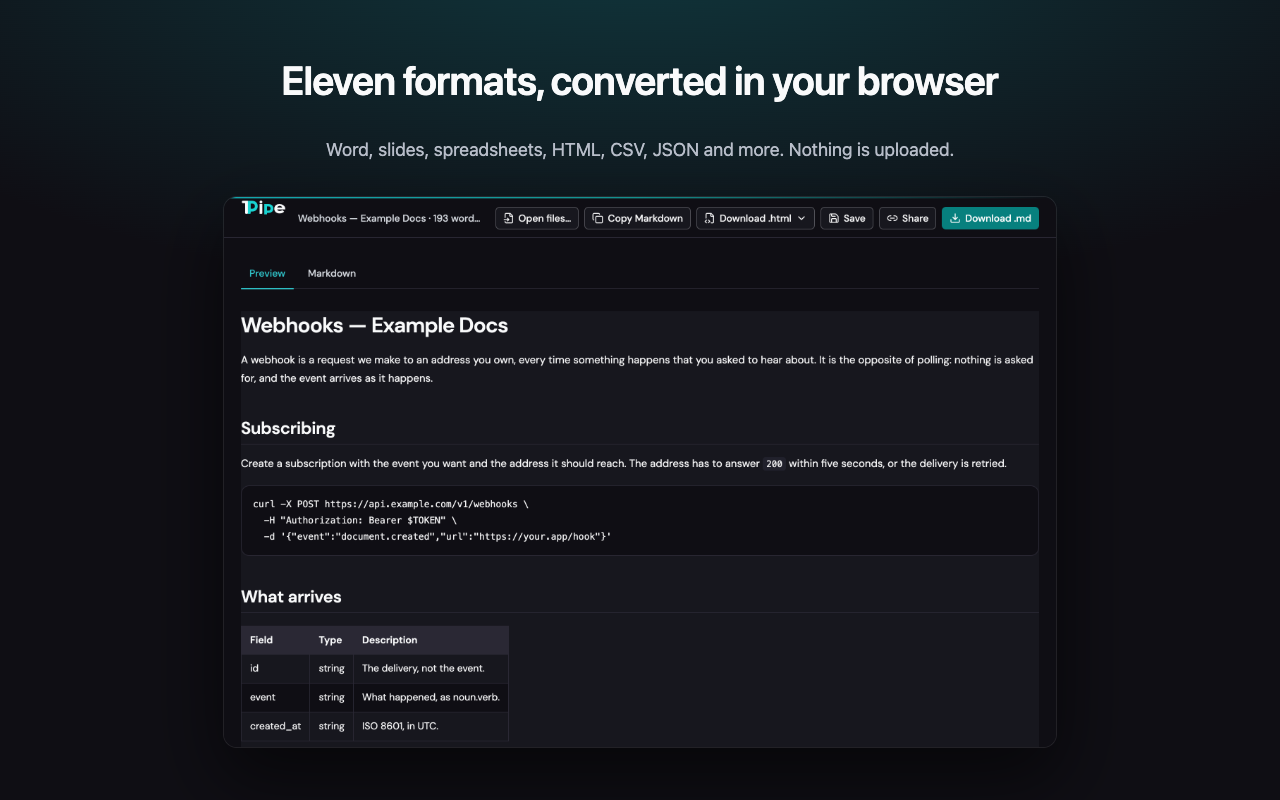
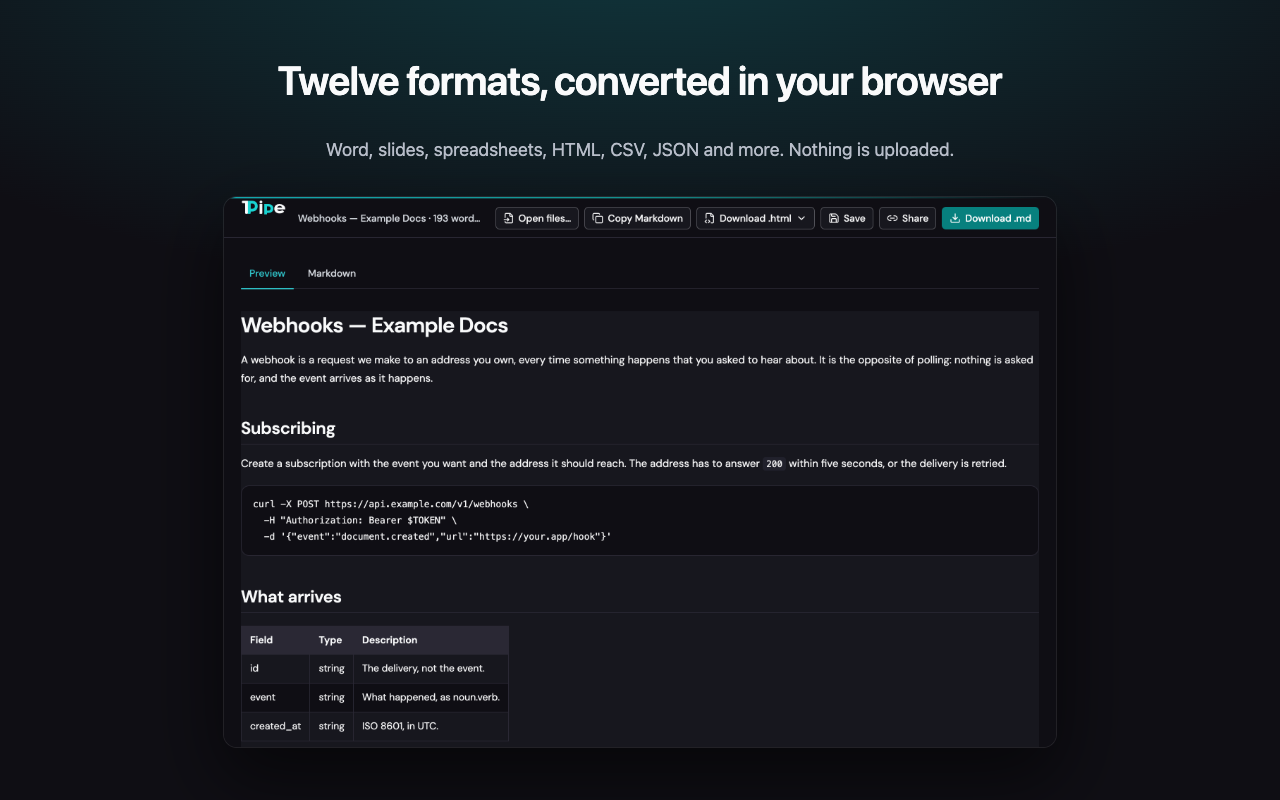
2.2.0, replacing 2.1.0 in the queue
2.1.0 went to the Chrome Web Store this morning and is replaced rather
than left to clear review. That is the opposite of the rule this
project wrote for itself a week ago — submit early and ship something
else while it sits — and it is the right call once: a snapshot of any
page whose CSS arrives by `<link>`, which is most pages, came out with
none of the site's styling in it, and saving a page as it looks is one
of the three things the extension does.

What 2.2.0 adds over it: EPUB as the twelfth conversion, the three
things that only went wrong on a phone, and the snapshot fix itself.

The screenshots are redrawn — the caption said eleven formats.

Changed region(s): [[0.2188, 0.0625, 0.7812, 0.125]]

diff --git a/src/lib/changelog.ts b/src/lib/changelog.ts
@@ -93,6 +93,18 @@ export const DETAIL_LIMIT = 3000;
 const ENTRIES: ChangelogEntry[] = [
   {
     date: '2026-09-21',
+    version: '2.2.0',
+    title: 'EPUB, and a phone that works',
+    body:
+      'A book is the twelfth conversion: a chapter is a section, in the order the book is read '
+      + 'rather than the order its files are numbered. Reading a document full screen now works '
+      + 'on an iPhone, where it had never worked at all; the tabs above a converted document stop '
+      + 'taking the page sideways; and a dialog taller than a phone held sideways can be '
+      + 'scrolled. For the extension, a saved page keeps the site’s own stylesheets — 2.1.0 was '
+      + 'replaced in the store rather than left to clear review, because it did not.',
+  },
+  {
+    date: '2026-09-21',
     title: 'A saved page keeps the site’s own stylesheets',
     body:
       'Saving a page as it looks could produce a file with none of the site’s styling in it — the '

diff --git a/shared/version.ts b/shared/version.ts
@@ -10,4 +10,4 @@
  * `npm run deploy:check` compares this with `package.json` and fails the build when they drift, so
  * the copy cannot go stale quietly.
  */
-export const VERSION = '2.1.0';
+export const VERSION = '2.2.0';

diff --git a/ROADMAP.md b/ROADMAP.md
@@ -83,11 +83,16 @@ two files into an answer. Hiding the one strategic bet in a list about storage i
 
 | | State |
 | --- | --- |
-| Chrome Web Store | **2.1.0 submitted 21 September**, with the screenshots redrawn. 1.0.0 was published that morning — 2.0.0 was built on the 19th and never went to Chrome, which is why the next number is 2.1.0 |
-| Firefox Add-ons | 2.0.0 submitted 19 September with source and `BUILD.md` — 0 errors, 26 warnings, all from mermaid's own dependencies. 2.1.0 and its source archive are built and go up once that one clears |
+| Chrome Web Store | **2.2.0**, which replaced 2.1.0 in the queue the same day it went up. 1.0.0 was published on the morning of the 21st; 2.0.0 was built on the 19th and never sent |
+| Firefox Add-ons | 2.0.0 submitted 19 September with source and `BUILD.md` — 0 errors, 26 warnings, all from mermaid's own dependencies. 2.2.0 and its source archive follow it |
 | GitHub Marketplace, for the Action | `branding` is in `action.yml`; the listing itself has not been made |
 
 The rule that came out of this: submit early in a week and ship something else while it sits.
+
+And the exception, taken once on 21 September: a package under review is replaced rather than
+left to clear when what is in it is broken for most people. 2.1.0 saved a page with none of the
+site's stylesheets in it, on any page whose CSS arrives by `<link>`. A restarted review is
+cheaper than a fortnight of that on the shelf.
 
 And the one from 21 September: **the screenshots are part of the listing.** `check-store.mjs` was
 written after the 1.0.0 rejection to stop this repository naming a format it does not convert, and
@@ -103,6 +108,14 @@ says otherwise.
 
 ### 21 September
 
+- [x] **2.2.0** — EPUB, the three mobile fixes, and a saved page that keeps the site's
+      stylesheets. Replaced 2.1.0 in the Chrome queue the same day
+- [x] **A saved page keeps the site's own stylesheets** — every linked stylesheet was inlined
+      correctly and then overwritten with an unrelated `<style>` from elsewhere in the page,
+      because the two lists were paired by position after the list had grown
+- [x] **Three things that only went wrong on a phone** — fullscreen threw on an iPhone rather
+      than working, four tabs took the page sideways, and a dialog taller than the screen could
+      not be scrolled
 - [x] **What survives an export, and what does not** — not the new comparison pages this said,
       because six already existed and said the opposite of what is now true. Thirty-five
       corrections across five languages instead: "nothing carries binary attachments across in a

diff --git a/content/extension-store.md b/content/extension-store.md
@@ -298,18 +298,21 @@ which one a bug report means.
 
 | | |
 | --- | --- |
-| **Chrome Web Store** | 1.0.0 rejected 18 September, listing rewritten, and the store shows **1.0.0 published on 21 September**. 2.0.0 was built but never went to Chrome |
-| **Firefox Add-ons** | 2.0.0 submitted 19 September, with the source archive and `BUILD.md` |
+| **Chrome Web Store** | 1.0.0 rejected 18 September, listing rewritten, and **1.0.0 published on 21 September**. 2.0.0 was built and never sent. 2.1.0 went up on the 21st and was replaced the same day by **2.2.0** |
+| **Firefox Add-ons** | 2.0.0 submitted 19 September with the source archive and `BUILD.md`; 2.2.0 follows it |
 
-So the next Chrome package is the first the store will have seen since the rename, and it is
-**2.1.0** — a version above anything either store holds, which is the only rule about the number
-that a store actually enforces.
+2.1.0 was replaced rather than left to clear review, which is the opposite of the rule further
+down and was the right call once. A snapshot of any page whose CSS arrives by `<link>` — which is
+most pages — came out with none of the site's styling in it, and *Save the page as it looks* is
+one of the three things this extension does. A fortnight of that sitting in the store costs more
+than a restarted review does.
 
 **What is in it that 1.0.0 does not have** is most of a fortnight, and almost all of it reaches
 the extension through `shared/`: diagrams drawn rather than printed, formulas typeset, code
-coloured, six more pieces of Markdown syntax understood, PowerPoint and EPUB as the eleventh and twelfth conversions,
-the pictures inside an export carried into the document, and a document check. From the
-extension's own side: it reads what the screen shows rather than what the markup claims —
-hidden routes, shadow DOM, typed form values, preformatted blocks kept preformatted, a side
-panel that follows a route change rather than only a page load, and a fail-safe that refuses to
-hand back an emptied page.
+coloured, six more pieces of Markdown syntax understood, PowerPoint and EPUB as the eleventh and
+twelfth conversions, the pictures inside an export carried into the document, and a document
+check. From the extension's own side: it reads what the screen shows rather than what the markup
+claims — hidden routes, shadow DOM, typed form values, preformatted blocks kept preformatted, a
+side panel that follows a route change rather than only a page load, and a fail-safe that refuses
+to hand back an emptied page. And from 2.2.0, a saved page keeps the site's own stylesheets,
+which 2.1.0 did not.
